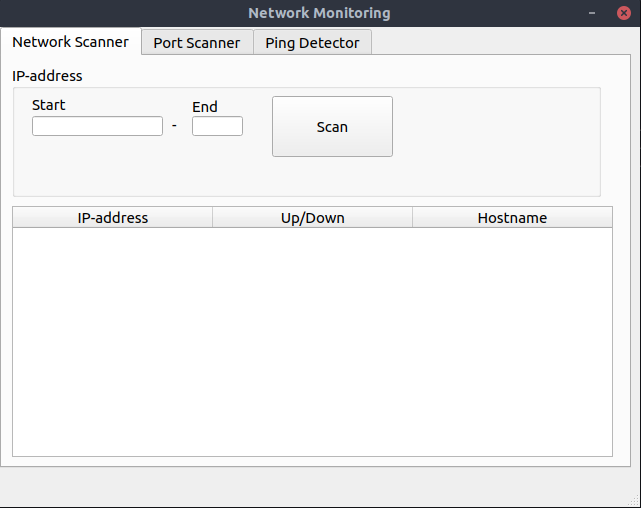
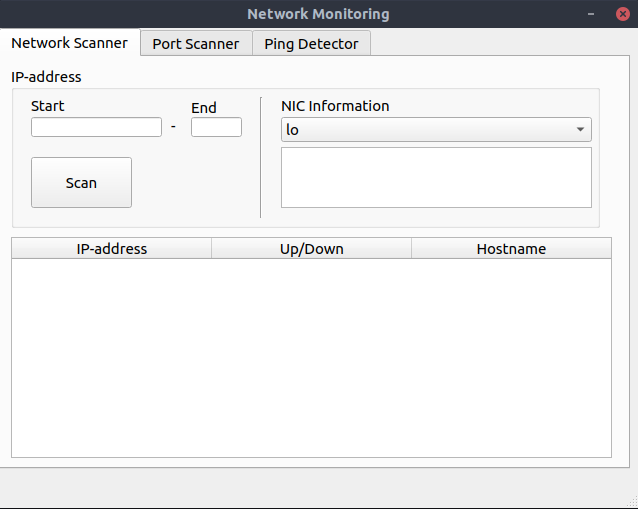
[new] get nic information

diff --git a/src/main.py b/src/main.py
@@ -7,6 +7,7 @@ import threading
 import nmap
 import pprint
 import re
+import netifaces
 
 # PyQT modules
 from PyQt5.QtCore import QDateTime
@@ -35,6 +36,7 @@ ui_top20_window = resource_path('resources/ui/20_known_ports.ui')
 ui_top100_window = resource_path('resources/ui/100_known_ports.ui')
 icon_window = resource_path('icons/network-icon.ico')
 icon_circle_info = resource_path('icons/circle-info.png')
+comming_soon_img = resource_path('icons/comming-soon.jpg')
 
 # Software version
 current_version = float(1.0)
@@ -61,6 +63,11 @@ class BaseWindow:
 def get_networkcards() -> list:
     nics = subprocess.check_output(['ls', '/sys/class/net']).strip().decode()
     nics = nics.split("\n")
+    return nics
+
+
+def get_networkcards_new() -> list:
+    nics = netifaces.interfaces()
     return nics
 
 
@@ -133,9 +140,23 @@ class MainPage(QtWidgets.QMainWindow, BaseWindow):
         self.pb_known_100.clicked.connect(self.open_top100_window)
         self.pb_known_20.setIcon(QIcon(QPixmap(icon_circle_info)))
         self.pb_known_100.setIcon(QIcon(QPixmap(icon_circle_info)))
+        pixmap = QPixmap(comming_soon_img)
+        self.lb_comming_soon.setPixmap(pixmap)
 
-        # for nic in get_networkcards():
-        #     self.combo_networkcard.addItem(nic)
+        for nic in get_networkcards_new():
+            self.combo_networkcard.addItem(nic)
+
+        self.combo_networkcard.currentIndexChanged.connect(self.get_network_data)
+
+    def get_network_data(self):
+        self.list_network_data.clear()
+        nic = self.combo_networkcard.currentText()
+        data = netifaces.ifaddresses(nic)
+        gateways = netifaces.gateways()
+        self.list_network_data.addItem(f'IP address: {data[netifaces.AF_INET][0]["addr"]}')
+        self.list_network_data.addItem(f'IP Netmask: {data[netifaces.AF_INET][0]["netmask"]}')
+        self.list_network_data.addItem(f'Default gateway: {gateways["default"][netifaces.AF_INET][0]} '
+                                       f'({gateways["default"][netifaces.AF_INET][1]})')
 
     def disable_custom_port_line(self):
         self.line_custom_port.setEnabled(False)
